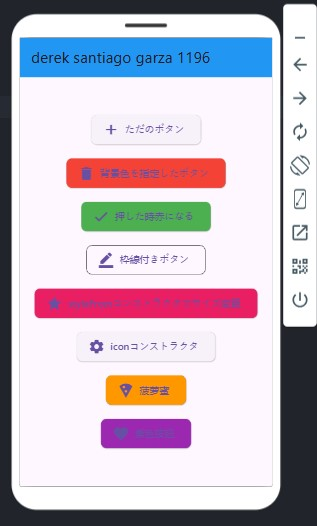
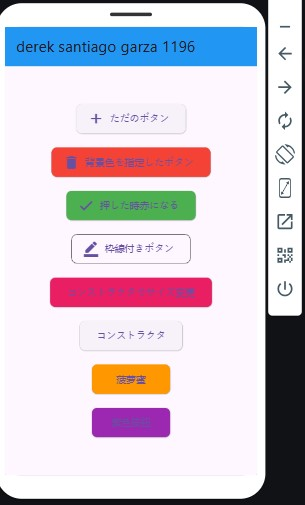
g

Changed region(s): [[0.0, 0.0, 1.0, 1.0], [0.2066, 0.4752, 0.2361, 0.505]]

diff --git a/lib/main.dart b/lib/main.dart
@@ -68,10 +68,9 @@ class MyApp extends StatelessWidget {
                 ),
               ),
               SizedBox(height: 20),
-              ElevatedButton.icon(
+              ElevatedButton(
                 onPressed: () {},
-                icon: Icon(Icons.star),
-                label: Text('styleFromコンストラクタでサイズ変更'),
+                child: Text('コンストラクタでサイズ変更'),
                 style: ElevatedButton.styleFrom(
                   backgroundColor: Colors.pink,
                   minimumSize: Size(200, 50),
@@ -81,10 +80,9 @@ class MyApp extends StatelessWidget {
                 ),
               ),
               SizedBox(height: 20),
-              ElevatedButton.icon(
+              ElevatedButton(
                 onPressed: () {},
-                icon: Icon(Icons.settings),
-                label: Text('iconコンストラクタ'),
+                child: Text('コンストラクタ'),
                 style: ElevatedButton.styleFrom(
                   shape: RoundedRectangleBorder(
                     borderRadius: BorderRadius.circular(8),
@@ -95,7 +93,6 @@ class MyApp extends StatelessWidget {
               SizedBox(height: 20),
               ElevatedButton.icon(
                 onPressed: () {},
-                icon: Icon(Icons.local_pizza),
                 label: Text('菠萝蜜'),
                 style: ElevatedButton.styleFrom(
                   backgroundColor: Colors.orange,
@@ -108,7 +105,6 @@ class MyApp extends StatelessWidget {
               SizedBox(height: 20),
               ElevatedButton.icon(
                 onPressed: () {},
-                icon: Icon(Icons.favorite),
                 label: Text('紫色按钮'),
                 style: ElevatedButton.styleFrom(
                   backgroundColor: Colors.purple,
@@ -124,4 +120,4 @@ class MyApp extends StatelessWidget {
       ),
     );
   }
-}S
+}
